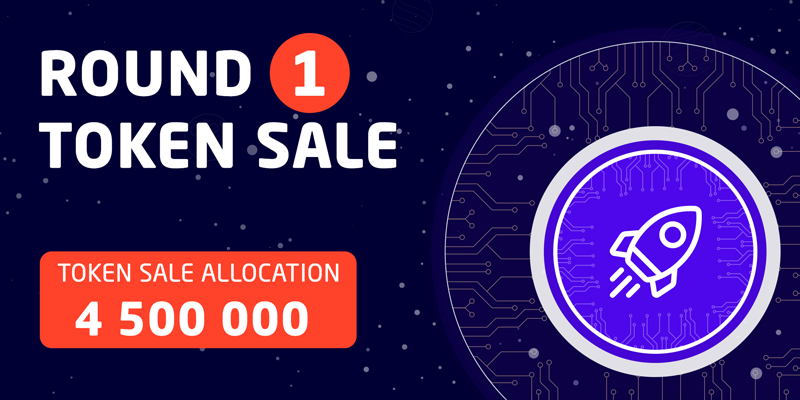
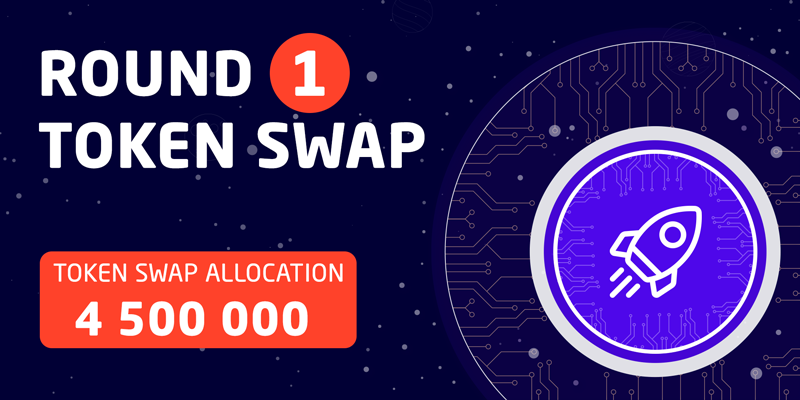
Swap image and text update
Added swap image and updated sale text to swap
Fixed top menu
Added git link to footer
Changed rocket to animate from below

Changed region(s): [[0.0625, 0.66, 0.4375, 0.72], [0.3438, 0.3, 0.5312, 0.42]]

diff --git a/index.html b/index.html
@@ -72,7 +72,7 @@
 										</a>
 									</div>
 								</div>
-								<div class="col-lg-7 d-flex justify-content-end possition-static">
+								<div class="col-lg-10 d-flex justify-content-end possition-static">
 									<nav id="dropdown" class="template-main-menu">
 										<ul>
 											<li class="position-static d-none d-lg-block">
@@ -144,7 +144,7 @@
 				<div class="container-fluid">
 					<div class="row">
 						<div class="col-lg-5 order-lg-2 d-flex align-items-center justify-content-center">
-							<div class="translate-right-75 opacity-animation transition-150 transition-delay-2600">
+							<div class="translate-bottom-75 opacity-animation transition-150 transition-delay-2600">
 								<div class="main-banner-box-layout1">
 									<div class="item-figure">
 										<img src="assets/img/tstarter-rocket.svg" alt="Illustration">
@@ -198,12 +198,12 @@
 								<div class="service-box-layout1">
 									<div>
 										<div>
-											<img src="assets/img/news-1.png" alt="tbond sale" class="rounded-corners"/>
+											<img src="assets/img/news-2.png" alt="tbond sale" class="rounded-corners"/>
 										</div>
 									</div>
-									<h3 class="item-title">Round 1 Token sale</h3>
-									<p>The T-Starter seed round token sale is now open. Click MORE INFO to discover how to take Part.</p>
-									<a href="https://telos.net/telos-erc-20-token-presale-on-bounce-finance-opens-march-1-2021/" class="item-btn btn-fill" target="_blank">MORE INFO</a>
+									<h3 class="item-title">Round 1 Token Swap</h3>
+									<p>The T-Starter seed round token swap is now open. Click MORE INFO to discover how to take Part.</p>
+									<a href="https://t-starter.medium.com/how-to-participate-in-the-t-starter-seed-round-token-sale-8eb6290c3c15" class="item-btn btn-fill" target="_blank">MORE INFO</a>
 								</div>
 							</div>
 						</div>
@@ -217,7 +217,7 @@
 									</div>
 									<h3 class="item-title">Round 2 Coming Soon</h3>
 									<p>See the STAR tokenomics plan for details on upcoming token sale.</br></br></p>
-									<a href="#" class="item-btn btn-fill" target="_blank">MORE INFO</a>
+									<a href="https://t-starter.medium.com/start-token-distribution-and-tokenomics-ed4535d8f0cf" class="item-btn btn-fill" target="_blank">MORE INFO</a>
 								</div>
 							</div>
 						</div>
@@ -403,7 +403,7 @@
 												</div>
 												<div class="item-content">
 													<h5 class="item-title"><span style="font-size: 14px;"><i class="far fa-circle"></i></span> Form project team</h5>
-													<h5 class="item-title"><span style="font-size: 14px;"><i class="far fa-circle"></i></i></span> Token sale</h5>
+													<h5 class="item-title"><span style="font-size: 14px;"><i class="far fa-circle"></i></i></span> Token swap</h5>
 												</div>
 											</div>
 										</div>
@@ -496,12 +496,12 @@
 							<div class="translate-bottom-75 opacity-animation transition-150 transition-delay-100">
 								<div class="blog-box-layout1">
 									<div class="item-figure">
-										<a href="https://t-starter.medium.com/introducing-t-starter-bringing-cross-chain-token-pools-to-telos-7a18d8abc659" target="_blank"><img src="assets/img/news-1.png" alt="Blog Figure"></a>
+										<a href="https://t-starter.medium.com/how-to-participate-in-the-t-starter-seed-round-token-sale-8eb6290c3c15" target="_blank"><img src="assets/img/news-2.png" alt="Blog Figure"></a>
 									</div>
 									<div class="item-content">
-										<h3 class="entry-title title-color-dark"><a href="https://t-starter.medium.com/introducing-t-starter-bringing-cross-chain-token-pools-to-telos-7a18d8abc659" target="_blank">Introducing T-Starter</a></h3>
+										<h3 class="entry-title title-color-dark"><a href="https://t-starter.medium.com/how-to-participate-in-the-t-starter-seed-round-token-sale-8eb6290c3c15" target="_blank">Round 1 Swap</a></h3>
 										<ul class="entry-meta meta-color-accent justify-content-between meta-divider-center meta-wrap-border-top">
-											<li><i class="far fa-calendar-alt"></i>Feb 12, 2021</li><li><i class="far fa-user"></i>By T-Starter</li>
+											<li><i class="far fa-calendar-alt"></i>Feb 14, 2021</li><li><i class="far fa-user"></i>By T-Starter</li>
 										</ul>
 									</div>
 								</div>
@@ -511,12 +511,12 @@
 							<div class="translate-bottom-75 opacity-animation transition-150 transition-delay-300">
 								<div class="blog-box-layout1">
 									<div class="item-figure">
-										<a href="#" target="_blank"><img src="assets/img/news-2.png" alt="Blog Figure"></a>
+										<a href="https://t-starter.medium.com/start-token-distribution-and-tokenomics-ed4535d8f0cf" target="_blank"><img src="assets/img/news-3.png" alt="Blog Figure"></a>
 									</div>
 									<div class="item-content">
-										<h3 class="entry-title title-color-dark"><a href="#" target="_blank">Round 1 Sale</a></h3>
+										<h3 class="entry-title title-color-dark"><a href="https://t-starter.medium.com/start-token-distribution-and-tokenomics-ed4535d8f0cf" target="_blank">Tokenomics</a></h3>
 										<ul class="entry-meta meta-color-accent justify-content-between meta-divider-center meta-wrap-border-top">
-											<li><i class="far fa-calendar-alt"></i>Feb 12, 2021</li><li><i class="far fa-user"></i>By T-Starter</li>
+											<li><i class="far fa-calendar-alt"></i>Feb 13, 2021</li><li><i class="far fa-user"></i>By T-Starter</li>
 										</ul>
 									</div>
 								</div>
@@ -526,12 +526,12 @@
 							<div class="translate-bottom-75 opacity-animation transition-150 transition-delay-500">
 								<div class="blog-box-layout1">
 									<div class="item-figure">
-										<a href="#" target="_blank"><img src="assets/img/news-3.png" alt="Blog Figure"></a>
+										<a href="https://t-starter.medium.com/introducing-t-starter-bringing-cross-chain-token-pools-to-telos-7a18d8abc659" target="_blank"><img src="assets/img/news-1.png" alt="Blog Figure"></a>
 									</div>
 									<div class="item-content">
-										<h3 class="entry-title title-color-dark"><a href="#" target="_blank">Tokenomics</a></h3>
+										<h3 class="entry-title title-color-dark"><a href="https://t-starter.medium.com/introducing-t-starter-bringing-cross-chain-token-pools-to-telos-7a18d8abc659" target="_blank">Introducing T-Starter</a></h3>
 										<ul class="entry-meta meta-color-accent justify-content-between meta-divider-center meta-wrap-border-top">
-											<li><i class="far fa-calendar-alt"></i>Feb 12, 2021</li><li><i class="far fa-user"></i>By T-Starter</li>
+											<li><i class="far fa-calendar-alt"></i>Feb 13, 2021</li><li><i class="far fa-user"></i>By T-Starter</li>
 										</ul>
 									</div>
 								</div>
@@ -576,9 +576,9 @@
 								<div class="footer-widgets">
 									<h3 class="footer-widget-heading">Contact Us</h3>
 									<ul class="footer-social">
-										<li><a href="https://t.me/tstarterio"><i class="fab fa-telegram-plane"></i></a></li>
-										<!--=<li><a href="https://twitter.com/home"><i class="fab fa-twitter"></i></a></li>=-->
-										<li><a href="https://medium.com/@t-starter"><i class="fab fa-medium-m"></i></a></li>
+										<li><a href="https://t.me/tstarterio" target="_blank"><i class="fab fa-telegram-plane"></i></a></li>
+										<li><a href="https://medium.com/@t-starter" target="_blank"><i class="fab fa-medium-m"></i></a></li>
+										<li><a href="https://github.com/T-Starter" target="_blank"><i class="fab fa-github"></i></a></li>
 									</ul>
 								</div>
 							</div>
@@ -618,8 +618,8 @@
 						<div class="item-title">Contact us</div>
 						<ul class="offcanvas-social">
 							<li><a href="https://t.me/tstarterio"><i class="fab fa-telegram-plane"></i></a></li>
-							<!--<li><a href="https://twitter.com/home"><i class="fab fa-twitter"></i></a></li>=-->
 							<li><a href="https://medium.com/@t-starter"><i class="fab fa-medium-m"></i></a></li>
+							<li><a href="https://github.com/T-Starter"><i class="fab fa-github"></i></a></li>
 						</ul>
 					</div>
 				</div>
